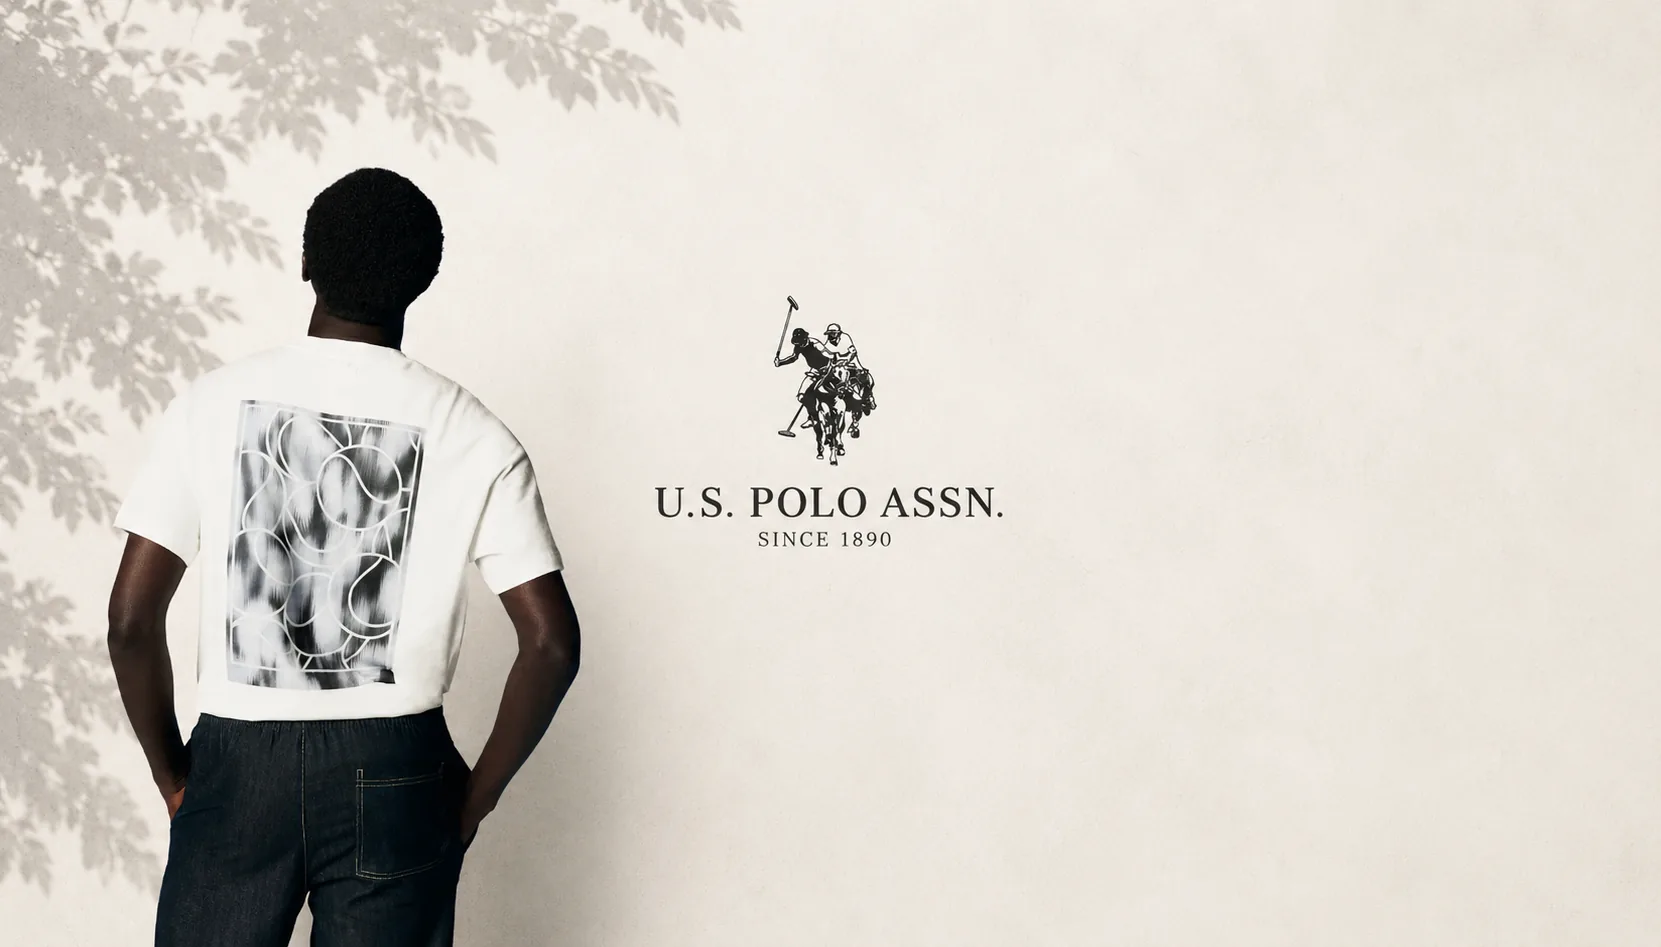
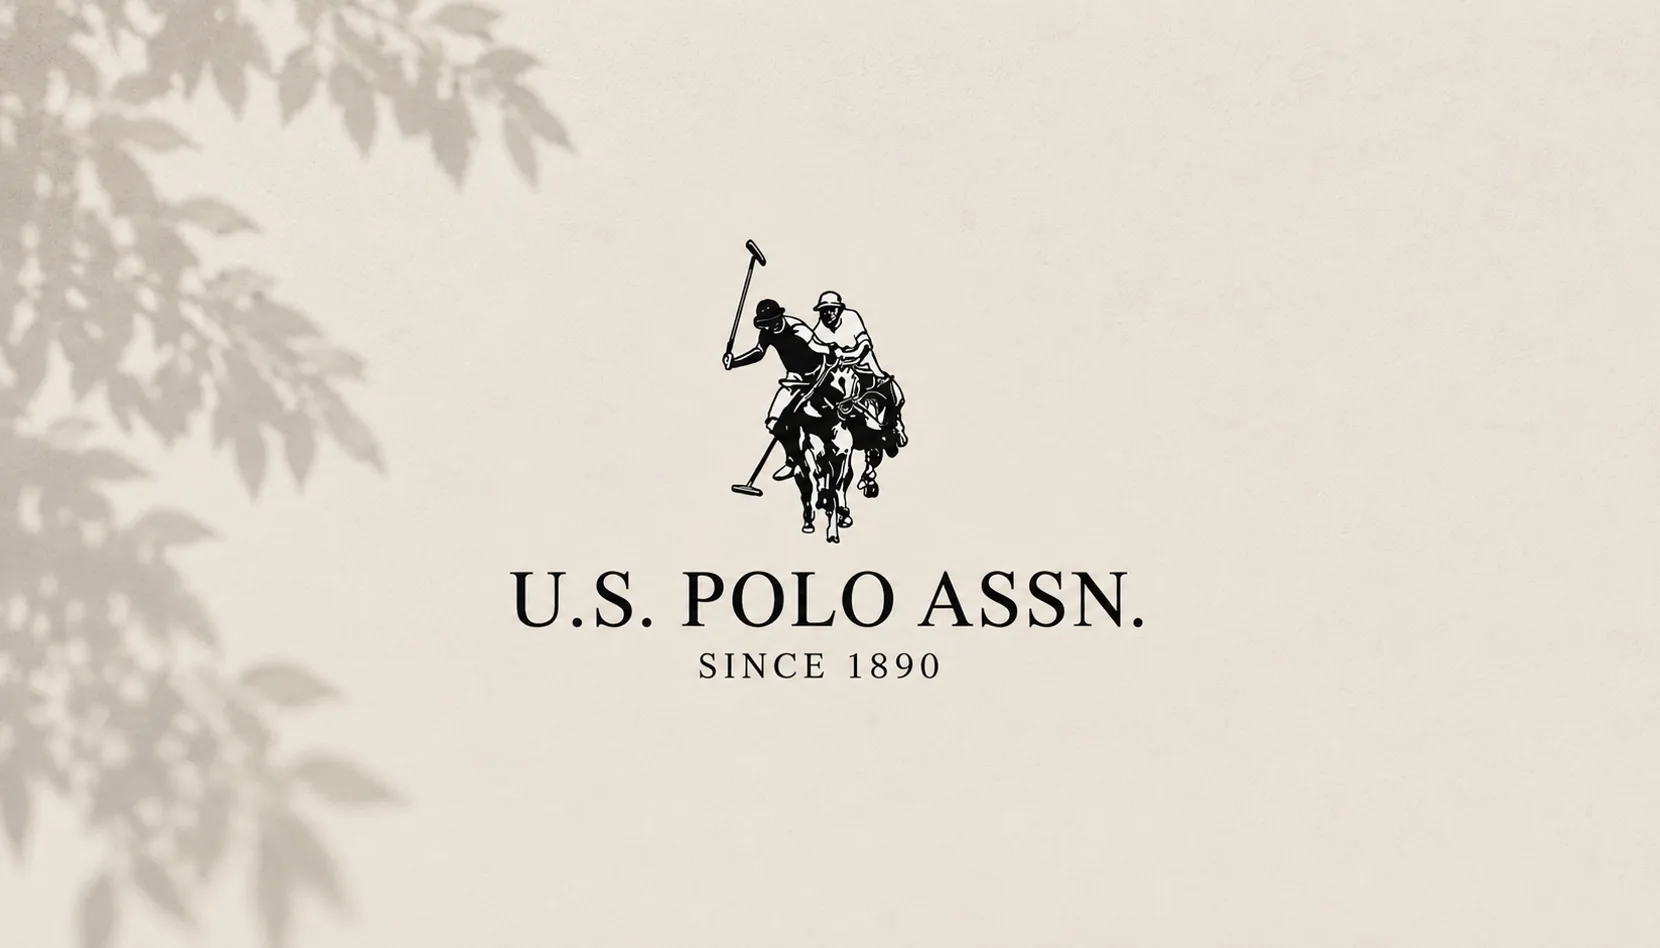
Vitrine da home reordenada por valor agregado, fechando em seis
A seção "Escolha a sua grife" mostrava Lacoste, Tommy, Colcci, US Polo,
Reserva e Ankor. O pedido do dono foi duplo: pôr Fred Perry e Acostamento
lá dentro, e ordenar por valor agregado, com a marca mais premium puxando
a grade. Depois, tirar Colcci e Biotwo.

A ordem passa a ser

  1  Lacoste       (card largo)
  2  Fred Perry
  3  Tommy Hilfiger
  4  Acostamento   (card largo)
  5  Reserva
  6  US Polo

e como brandShowcase é fonte única, ela vale também para a faixa
rotativa de logos e para a navegação por marca do catálogo.

A vitrine é MÚLTIPLO DE 3: cada linha do desktop é um card largo de duas
colunas mais dois menores. Foi o que decidiu quem sai. Com as duas novas,
a lista de nove fechava três linhas; tirando Colcci e Biotwo sobravam
sete, que deixa um buraco de duas colunas na última. A Ankor saiu junto
para fechar em seis — aritmética da grade, não curadoria. As três seguem
na faixa de logos (menos a Biotwo, que já estava fora) e inteiras na
navegação do catálogo. Nenhum SKU sai do ar: vitrineHome só decide card.

As artes das duas marcas novas não existiam, e o componente só desenhava
a <Image> quando havia cover — o card sairia VAZIO. Duas coisas mudam
por causa disso. As artes agora existem, convertidas para 1660x948 no
mesmo padrão das outras sete. E o ramo sem capa deixou de ser um buraco:
vira o lockup oficial sobre o degradê da própria paleta. Hoje ninguém cai
nele, e é de propósito que fique — a próxima marca a entrar antes da arte
[…]

Changed region(s): [[0.0, 0.0, 0.6759, 1.0], [0.3687, 0.0, 0.4301, 0.0306]]

diff --git a/components/CategoryShowcase.tsx b/components/CategoryShowcase.tsx
@@ -2,17 +2,23 @@ import Image from "next/image"
 import Link from "next/link"
 import { ArrowRight, ArrowUpRight } from "lucide-react"
 import { brandShowcase } from "@/data/brands"
+import { BrandLogo } from "@/components/BrandLogos"
 
 // "O que você procura hoje?": as MARCAS da casa como vitrine visual da home.
 // A hierarquia é fixa — um card largo puxa cada linha e dois menores
 // completam; no mobile a mesma ordem vira card largo em largura total +
 // dupla lado a lado, sem carrossel.
 //
-// Os cards vêm da vitrine curada (data/brands.ts), na ordem de lá: os seis
-// primeiros com card na home (vitrineHome !== false) entram, largos nas
-// posições 1 e 4 (Lacoste e US Polo). Clique abre o catálogo já filtrado em
-// /catalogo/marca/<slug> — marca sem SKU cai no estado vazio da página, que
-// tem saída para o catálogo completo.
+// Os cards vêm da vitrine curada (data/brands.ts), na ordem de lá (valor
+// agregado decrescente): entram os que têm card na home (vitrineHome !== false),
+// largos nas posições 1 e 4 (Lacoste e Acostamento). Clique abre o catálogo já
+// filtrado em /catalogo/marca/<slug> — marca sem SKU cai no estado vazio da
+// página, que tem saída para o catálogo completo.
+//
+// MÚLTIPLO DE 3, sempre: cada linha do desktop é um card largo (2 colunas) +
+// dois menores. Um total fora da tabuada deixa buraco na última linha — foi o
+// que aconteceu quando Colcci e Biotwo saíram de uma vitrine de nove e sobraram
+// sete; a Ankor saiu junto para fechar em seis. Mexer aqui é mexer em quem sai.
 const VAGAS = 6
 const cards = brandShowcase.filter((item) => item.vitrineHome !== false).slice(0, VAGAS)
 
@@ -25,10 +31,21 @@ const cards = brandShowcase.filter((item) => item.vitrineHome !== false).slice(0
 const recorteNoLogo: Record<string, string> = {
   "tommy-hilfiger": "86% center",
   colcci: "88% center",
-  "us-polo": "54% center",
+  // A arte da US Polo não tem modelo e traz o lockup no meio, então aqui o
+  // recorte NÃO puxa para a direita como os vizinhos — a janela de ~46% que o
+  // card 4:5 mostra já cai inteira em cima do logo.
+  "us-polo": "center",
   reserva: "82% center",
   ankor: "84% center",
+  // Nas artes novas o lockup está centrado a ~72% da largura; num card 4:5 a
+  // janela mostra ~46% da arte, e é esse par que dá os 90%.
+  "fred-perry": "90% center",
+  acostamento: "90% center",
+  biotwo: "92% center",
 }
+// Nem toda entrada acima está em uso: a Acostamento hoje cai no card largo (que
+// usa coverPosition), e Colcci, Ankor e Biotwo estão fora da vitrine da home.
+// Ficam guardadas calibradas, para não refazer a conta se voltarem.
 
 export function CategoryShowcase() {
   return (
@@ -76,7 +93,7 @@ export function CategoryShowcase() {
                   largo ? "col-span-2 aspect-[16/10] lg:aspect-auto" : "aspect-[4/5]"
                 }`}
               >
-                {item.cover && (
+                {item.cover ? (
                   <Image
                     src={item.cover}
                     alt=""
@@ -93,6 +110,35 @@ export function CategoryShowcase() {
                         : recorteNoLogo[item.slug] ?? "center",
                     }}
                   />
+                ) : (
+                  /* Modo logo — rede de segurança para marca sem arte
+                     -vitrine-v1. Hoje as seis da vitrine têm capa e ninguém cai
+                     aqui, mas sem este ramo o card sairia VAZIO, que foi o que
+                     quase aconteceu quando Acostamento e Fred Perry entraram
+                     antes das artes existirem. O lockup oficial vai sobre o
+                     degradê claro da própria paleta, mesmo registro de bege das
+                     capas. O padding de baixo tira o logo do caminho do nome e
+                     da seta.
+
+                     Os dois tetos trabalham em turnos, e por isso o de largura
+                     é folgado: no lockup deitado do Acostamento (7:1) quem
+                     limita é a LARGURA — apertar aqui derrete a altura para uma
+                     tirinha —, enquanto no lockup empilhado da Fred Perry
+                     (quase 2:1) quem limita é a ALTURA, e ela sozinha já segura
+                     o tamanho. */
+                  <div
+                    aria-hidden="true"
+                    className="absolute inset-0 flex items-center justify-center bg-gradient-to-b from-bg-elevated to-bg-surface px-6 pb-12 sm:pb-14 lg:pb-16"
+                  >
+                    <BrandLogo
+                      name={item.name}
+                      className={`w-auto transition-transform duration-500 group-hover:scale-[1.04] ${
+                        largo
+                          ? "max-h-24 max-w-[70%] lg:max-h-32"
+                          : "max-h-14 max-w-[76%] lg:max-h-20"
+                      }`}
+                    />
+                  </div>
                 )}
 
                 {/* Véu em degradê só na base, onde nome e seta pousam — as

diff --git a/data/brands.ts b/data/brands.ts
@@ -63,7 +63,10 @@ export const brandLogoAssets: Record<string, string> = {
 
 // ── Vitrine de marcas ─────────────────────────────────────────────────────────
 // Fonte única da navegação por marca: seção "Compre por marca" da home, faixa
-// de logos e navegação do catálogo. A ordem aqui é a ordem de exibição.
+// de logos e navegação do catálogo. A ordem aqui é a ordem de exibição, e é
+// por VALOR AGREGADO decrescente — critério do proprietário: a marca mais
+// premium puxa a vitrine. A perfumaria no fim da lista não segue esse critério
+// porque não disputa vitrine nenhuma (vitrineHome e faixaLogos false).
 //
 // `brands` lista os nomes reais em data/products.ts que o card cobre — Tommy
 // Hilfiger e Tommy Jeans são variações da mesma marca e viram um card só.
@@ -95,6 +98,14 @@ export const brandShowcase: BrandShowcaseItem[] = [
     cover: "/images/brands/covers/lacoste-vitrine-v1.webp",
     coverPosition: "55% center",
   },
+  // 2ª posição por pedido do proprietário.
+  {
+    name: "Fred Perry",
+    slug: "fred-perry",
+    brands: ["Fred Perry"],
+    cover: "/images/brands/covers/fred-perry-vitrine-v1.webp",
+    coverPosition: "55% center",
+  },
   {
     name: "Tommy Hilfiger",
     slug: "tommy-hilfiger",
@@ -102,21 +113,25 @@ export const brandShowcase: BrandShowcaseItem[] = [
     cover: "/images/brands/covers/tommy-hilfiger-vitrine-v1.webp",
     coverPosition: "60% center",
   },
+  // Card LARGO da segunda linha (posição 4). Ordem por valor agregado, definida
+  // pelo proprietário.
+  {
+    name: "Acostamento",
+    slug: "acostamento",
+    brands: ["Acostamento"],
+    cover: "/images/brands/covers/acostamento-vitrine-v1.webp",
+    coverPosition: "55% center",
+  },
+  // Fora do card da home por pedido do proprietário; segue na faixa de logos e
+  // na navegação do catálogo. A arte -vitrine-v1 fica guardada para quando
+  // voltar.
   {
     name: "Colcci",
     slug: "colcci",
     brands: ["Colcci"],
     cover: "/images/brands/covers/colcci-vitrine-v1.webp",
     coverPosition: "55% center",
-  },
-  // US Polo antes da Reserva de propósito: na vitrine da home, a 4ª posição
-  // é o card largo da segunda linha — pedido do proprietário.
-  {
-    name: "US Polo",
-    slug: "us-polo",
-    brands: ["US Polo"],
-    cover: "/images/brands/covers/us-polo-vitrine-v1.webp",
-    coverPosition: "left center",
+    vitrineHome: false,
   },
   {
     name: "Reserva",
@@ -125,26 +140,36 @@ export const brandShowcase: BrandShowcaseItem[] = [
     cover: "/images/brands/covers/reserva-vitrine-v1.webp",
     coverPosition: "40% center",
   },
+  // Única arte da vitrine SEM modelo: só o lockup, centrado na largura. Por
+  // isso o corte é "center" nas duas medidas de card, enquanto as outras puxam
+  // para a direita atrás do logo. O "left center" antigo era da arte anterior,
+  // que tinha o modelo à esquerda.
+  {
+    name: "US Polo",
+    slug: "us-polo",
+    brands: ["US Polo"],
+    cover: "/images/brands/covers/us-polo-vitrine-v1.webp",
+    coverPosition: "center",
+  },
+  // Também fora do card da home, junto com a Colcci: a vitrine fechou em seis e
+  // a Ankor é a última por valor agregado. Segue na faixa e no catálogo.
   {
     name: "Ankor",
     slug: "ankor",
     brands: ["Ankor"],
     cover: "/images/brands/covers/ankor-vitrine-v1.webp",
     coverPosition: "40% center",
+    vitrineHome: false,
   },
-  // Acostamento e Fred Perry entram sem capa: a vitrine da home só tem seis
-  // vagas e já estava cheia antes delas, então nunca chegam ao card — ficam na
-  // faixa de logos e na navegação do catálogo, que é o que foi pedido. Se um
-  // dia subirem para as seis primeiras, o card cai no modo sem capa e mostra o
-  // logo oficial; aí vale desenhar uma arte -vitrine-v1 como as de cima.
-  { name: "Acostamento", slug: "acostamento", brands: ["Acostamento"] },
-  { name: "Fred Perry", slug: "fred-perry", brands: ["Fred Perry"] },
+  // Fora das duas vitrines por pedido do proprietário — continua inteira na
+  // navegação do catálogo, como a perfumaria abaixo.
   {
     name: "Biotwo",
     slug: "biotwo",
     brands: ["Biotwo"],
     cover: "/images/brands/covers/biotwo-vitrine-v1.webp",
     coverPosition: "55% center",
+    vitrineHome: false,
     faixaLogos: false,
   },
   // ── Perfumaria e marcas dos kits ──────────────────────────────────────────
